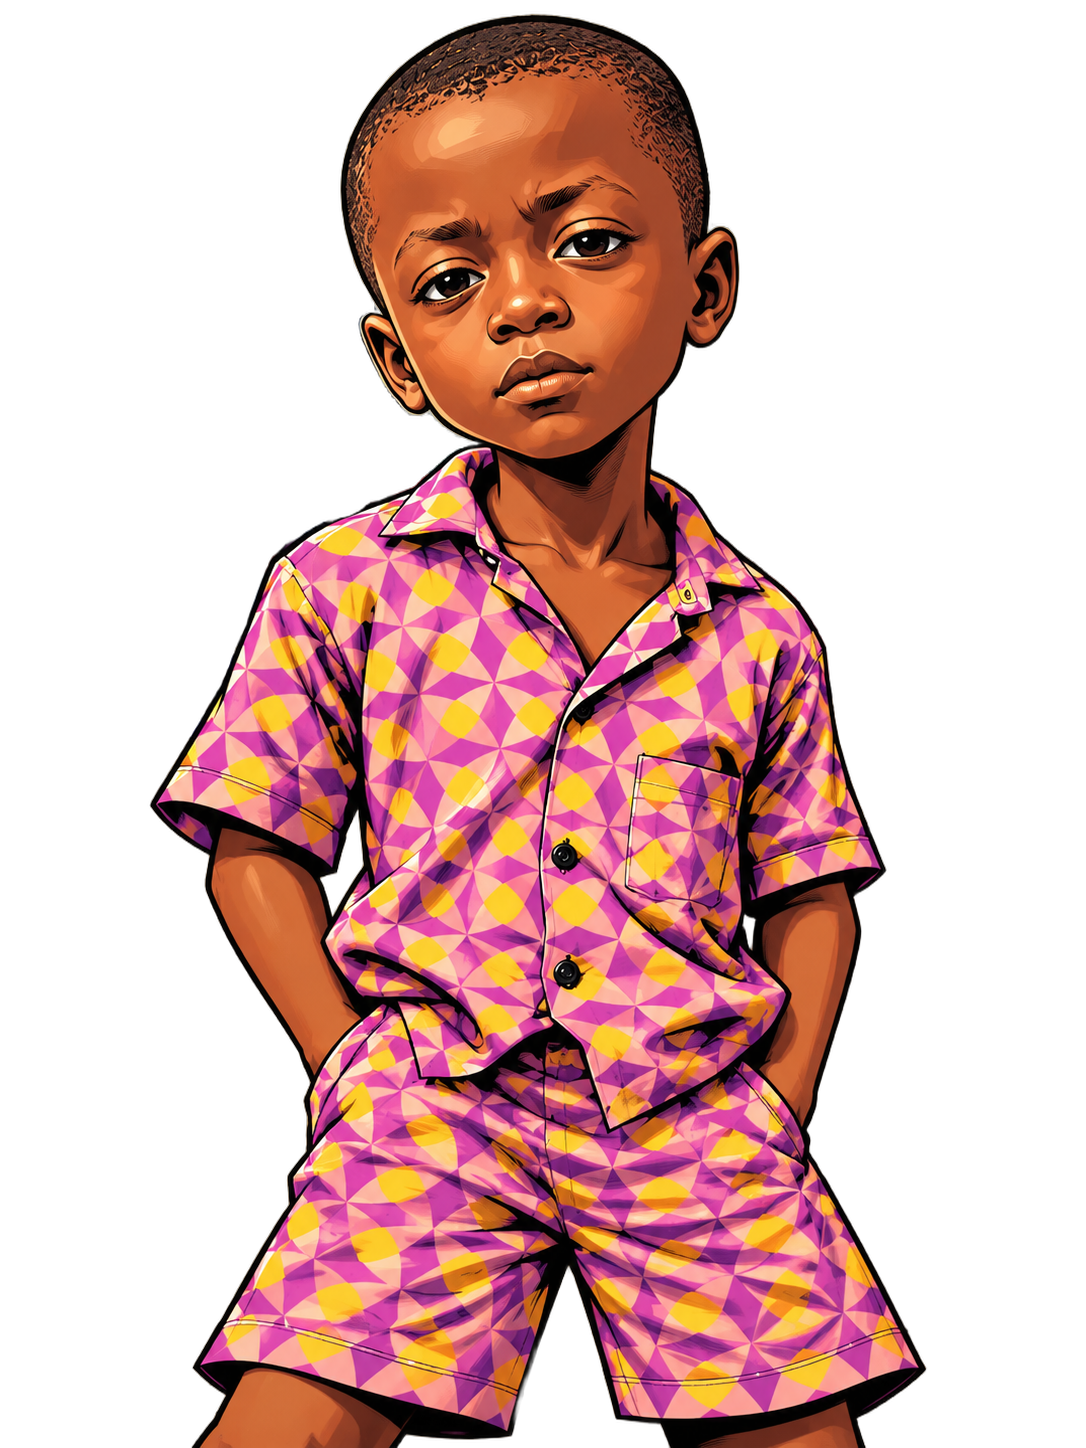
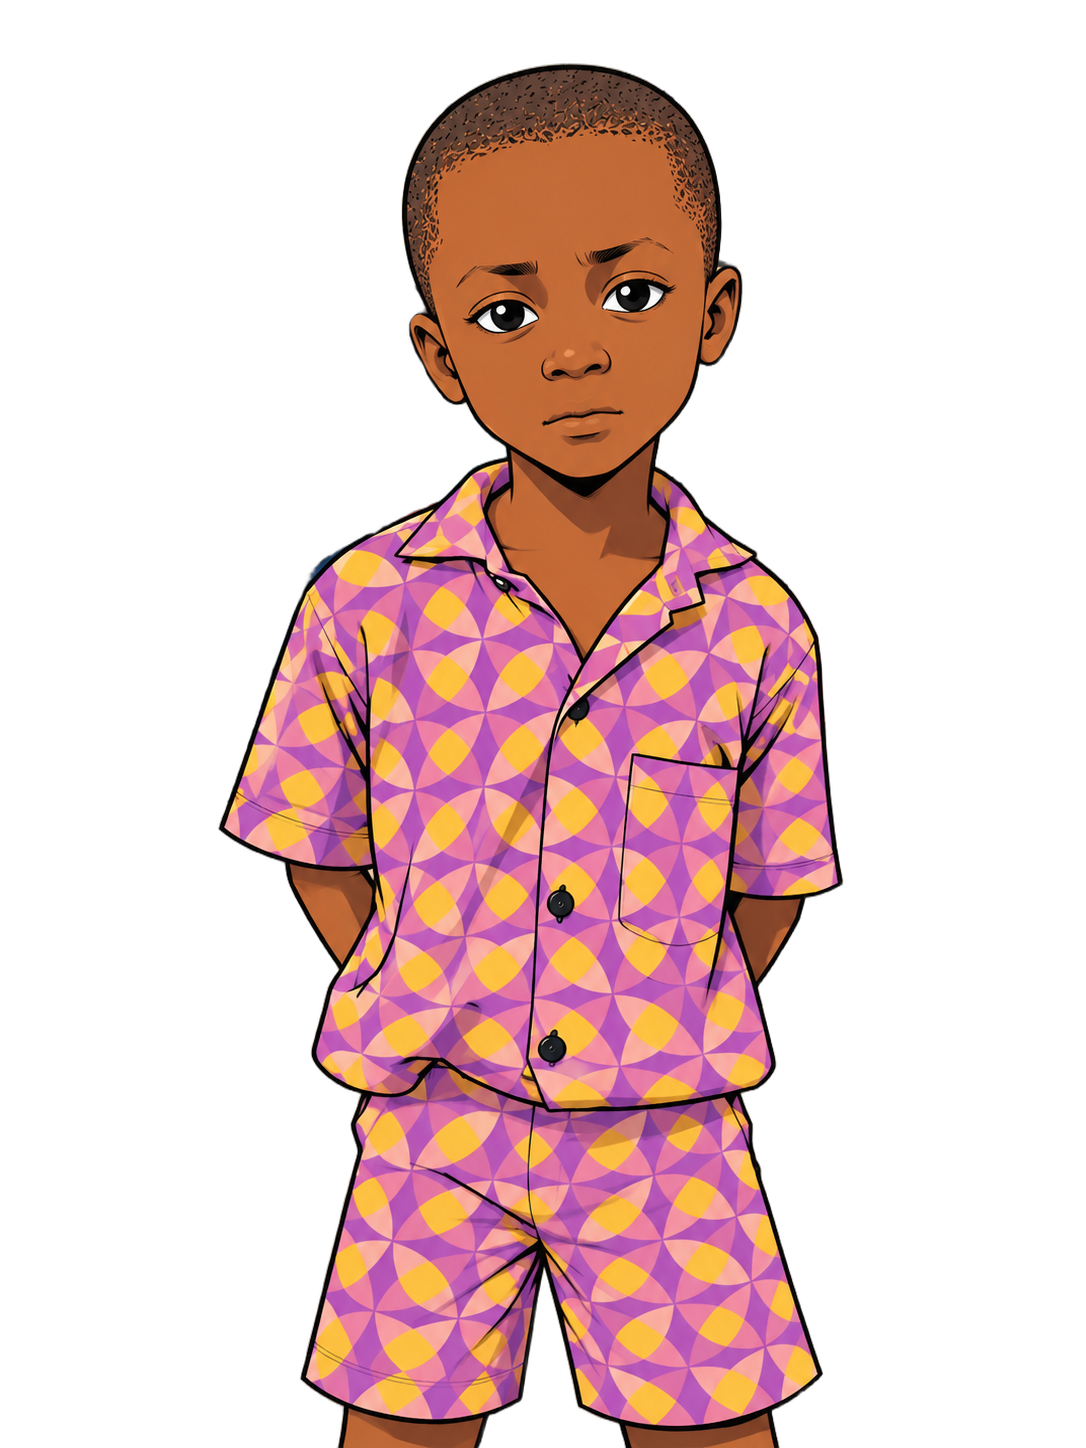
feat(hero): integrate isolated Serious Boy in Patterned Outfit cutout into mentorship giving stage

diff --git a/index.html b/index.html
@@ -227,8 +227,8 @@
         <div class="m-hero-sun-disc" aria-hidden="true"></div>
         <div class="m-hero-img-wrap">
           <img 
-            src="assets/images/gallery/comic_student_cutout.png" 
-            alt="Illustrated student scholar from Nigeria - Cool Comic Courtyard Portrait" 
+            src="assets/images/gallery/comic_student_cutout.png?v=20261031_v61" 
+            alt="Serious Boy in Patterned Outfit - Illustrated Nigerian Student Scholar" 
             class="m-hero-cutout-img"
             loading="eager"
           >
